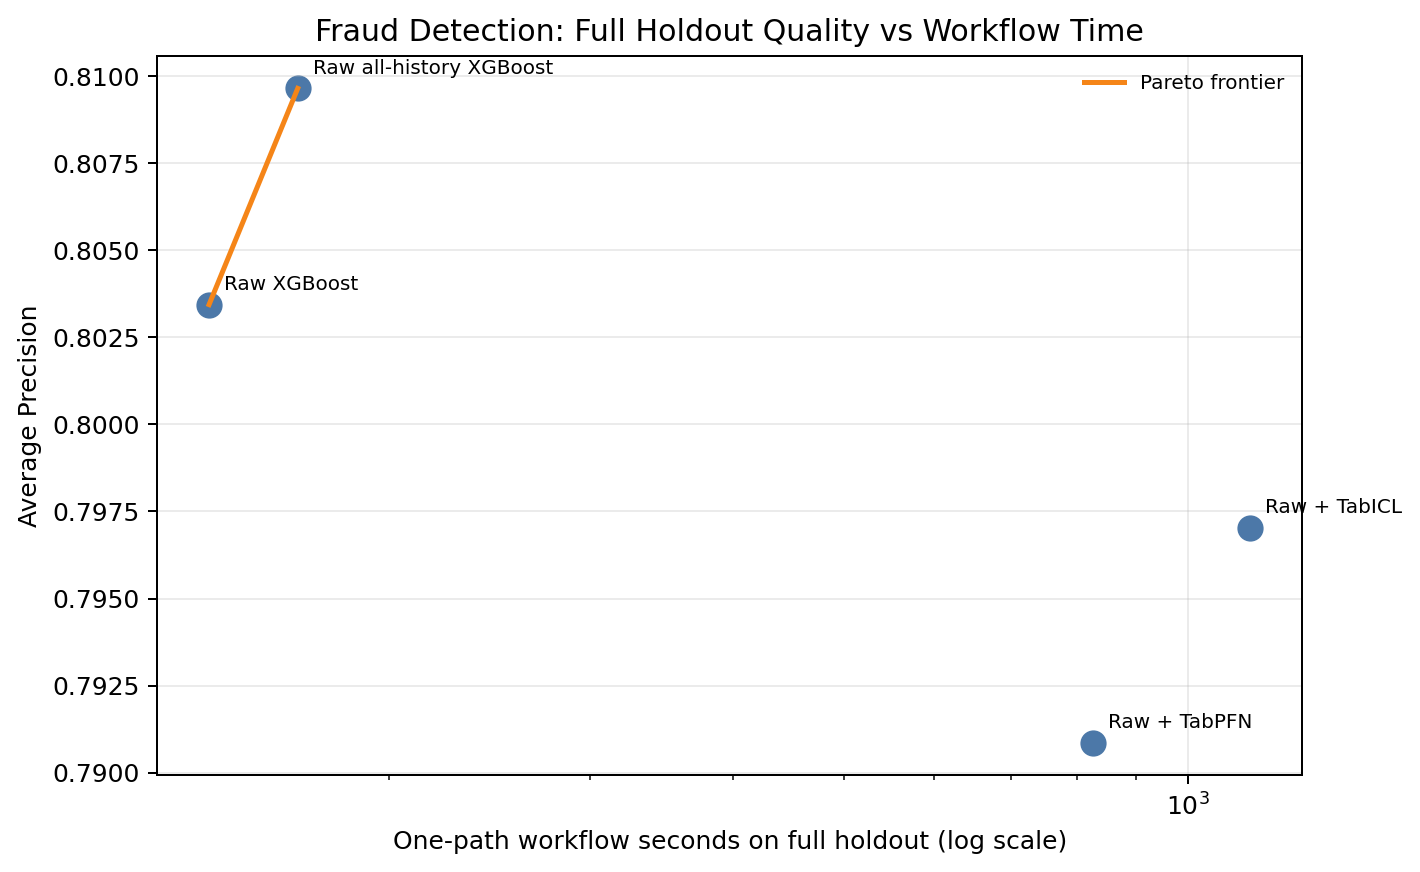
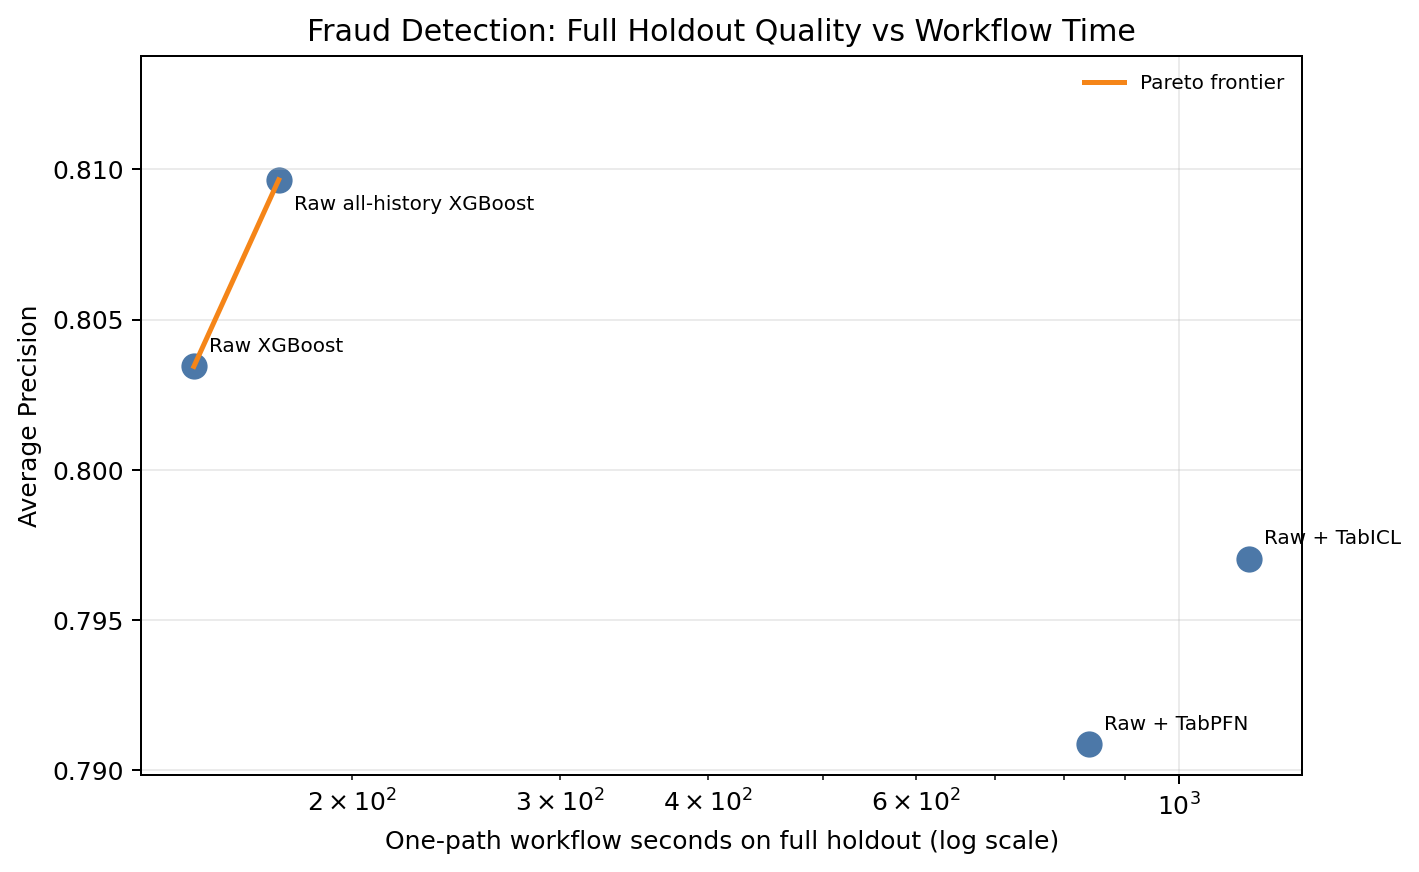
include details from v3 in the post

diff --git a/blog/20260505-tabpfn-tabicl-embeddings-fraud-det-workflows.md b/blog/20260505-tabpfn-tabicl-embeddings-fraud-det-workflows.md
@@ -20,7 +20,7 @@ Notebook:
 
 [tabpfn-tabicl-fraud-detection-20260505.ipynb](./20260505-tabpfn-tabicl-embeddings-fraud-det-workflows.assets/tabpfn-tabicl-fraud-detection-20260505.ipynb)
 
-The current notebook source is marked `P17, v3`. The completed numerical results discussed in this post come from the v2 run saved in the assets directory. The v3 source keeps the same core workflow, adds stronger reproducibility and uncertainty artifacts, and is ready for a fresh Kaggle GPU execution.
+The completed numerical results discussed in this post come from the final v3 rerun saved in the assets directory. This v3 run keeps the compact one-embedding-source comparison and adds stronger reproducibility artifacts: curated publication operating-point tables, bootstrap uncertainty, source/model provenance, embedding matrix memory summaries, and CUDA memory snapshots.
 
 ## Conceptual background
 
@@ -174,11 +174,11 @@ Lower is better for both. The notebook also reports reliability-bin summaries an
 
 ## Hands-on demo
 
-### Notebook setup and run state
+### Notebook setup and run state < remove this section. I want to discuss scientific and experiemental results and don't want the blog post to be log book >
 
 The notebook is designed to run on Kaggle with GPU enabled. It installs `cudf-cu12`, uses the cuDF pandas accelerator, generates TabPFN and TabICL embeddings on CUDA devices, and uses a GPU XGBoost path for the downstream scorer.
 
-The v2 completed run used:
+The final v3 completed rerun used: 
 
 | Component | Version |
 |---|---:|
@@ -194,32 +194,34 @@ The v2 completed run used:
 | TabPFN | 7.1.1 |
 | TabICL | 2.1.1 |
 
-The v2 notebook ran without notebook execution errors. The current v3 source adds more provenance, memory, and uncertainty outputs, but those v3 outputs still need a fresh completed GPU run.
+The notebook ran without execution errors. The only stderr output came from Kaggle setup dependency warnings and a cuDF compression auto-detection warning while loading data. The run produced the expected publication tables and figures, including the new bootstrap, memory, and provenance outputs.
 
 ### Split and tuning policy
 
+< there is no need to mention v1 v2 and v3 in the post. Treat the latest version (v3 in this case) as the one and only publishable version and use it for the blog post.
+
 The split and tuning policy are central to the result. The fair raw-vs-embedding comparison excludes the earliest representation-context rows from downstream tuning, because those labels were used to condition TabPFN and TabICL embeddings.
 
-In the v2 run:
+In the v3 rerun:
 
 | Comparison | Tuning rows | Fraud rows | Context rows excluded | Sampled train used |
 |---|---:|---:|---:|---:|
 | fair raw-vs-embedding | 142,403 | 227 | 56,961 | false |
 | raw all-history incumbent | 199,364 | 384 | 0 | false |
 
-The fair raw-vs-embedding path had five valid chronological folds. This matters because the earlier workflow had too little valid chronological tuning evidence after fraud-count checks. The v2/v3 design gives the XGBoost tuner more chronological history while still respecting the TFM context boundary.
+The fair raw-vs-embedding path had five valid chronological folds. This matters because the earlier workflow had too little valid chronological tuning evidence after fraud-count checks. The v3 design gives the XGBoost tuner more chronological history while still respecting the TFM context boundary.
 
 ### Feature bundles
 
-The v2 run evaluated the intended feature bundles:
+The v3 rerun evaluated the intended feature bundles:
 
 | Feature set | Embedding source | Feature count | Shared feature prep seconds |
 |---|---|---:|---:|
 | Raw | none | 29 | 0.0 |
-| Raw + TabPFN embeddings | TabPFN | 221 | 373.2 |
-| Raw + TabICL embeddings | TabICL | 541 | 120.3 |
+| Raw + TabPFN embeddings | TabPFN | 221 | 371.4 |
+| Raw + TabICL embeddings | TabICL | 541 | 120.5 |
 
-There is no combined `Raw + TabPFN + TabICL` row in the v2 publication workflow. I removed it because the main question is one-embedding-source adoption. This makes the result less dramatic than the initial completed run, where the combined row had the best AP, but I think it makes the comparison more realistic.
+There is no combined `Raw + TabPFN + TabICL` row in the v3 publication workflow. I removed it because the main question is one-embedding-source adoption. This makes the result less dramatic than the initial completed run, where the combined row had the best AP, but I think it makes the comparison more realistic.
 
 The two embedding paths are also technically different. TabPFN exposes a public `get_embeddings` method. TabICL does not expose the same sklearn-level public embedding method, so the notebook extracts representations through the fitted TabICL wrapper internals and records the version/checkpoint metadata. That is useful for experimentation, but it should be treated as a version-sensitive path.
 
@@ -229,10 +231,10 @@ The full holdout is the deployment-facing view because it keeps the original fin
 
 | Model | AP | Workflow seconds | Top 0.5% recall | Top 1% recall | Brier | ECE 10 |
 |---|---:|---:|---:|---:|---:|---:|
-| Raw all-history XGBoost | 0.8097 | 166.5 | 0.8533 | 0.8533 | 0.000424 | 0.000104 |
-| Raw XGBoost | 0.8034 | 139.2 | 0.8400 | 0.8667 | 0.000403 | 0.000231 |
-| Raw + TabICL | 0.7970 | 1134.1 | 0.8267 | 0.9067 | 0.000451 | 0.000485 |
-| Raw + TabPFN | 0.7909 | 825.3 | 0.8000 | 0.8400 | 0.000381 | 0.000184 |
+| Raw all-history XGBoost | 0.8097 | 173.3 | 0.8533 | 0.8533 | 0.000424 | 0.000104 |
+| Raw XGBoost | 0.8034 | 147.0 | 0.8400 | 0.8667 | 0.000403 | 0.000231 |
+| Raw + TabICL | 0.7970 | 1147.8 | 0.8267 | 0.9067 | 0.000451 | 0.000485 |
+| Raw + TabPFN | 0.7909 | 840.2 | 0.8000 | 0.8400 | 0.000381 | 0.000184 |
 
 The raw all-history XGBoost incumbent has the best full-holdout Average Precision. The ordinary raw XGBoost row is close and fastest. Neither single-source embedding workflow improves AP over the raw XGBoost baselines in this run.
 
@@ -264,9 +266,35 @@ At 90% recall, the result changes:
 | Raw XGBoost | 1,177 | 68 | 0.0578 |
 | Raw + TabPFN | 1,598 | 68 | 0.0426 |
 
-This is the main operational signal from the v2 run. TabICL does not win by full-holdout AP, but it needs far fewer alerts to recover 68 of the 75 fraud cases in the full holdout. For a review team targeting very high recall, that is worth further investigation.
+This is the main operational signal from the v3 rerun. TabICL does not win by full-holdout AP, but it needs far fewer alerts to recover 68 of the 75 fraud cases in the full holdout. For a review team targeting very high recall, that is worth further investigation.
 
 This also shows why an evaluation should not stop at one metric. AP is a useful ranking summary. Alert counts translate the score into a workflow. Both are needed.
+
+### Bootstrap uncertainty
+
+The v3 notebook adds bootstrap uncertainty for full-holdout AP and for the number of alerts needed at 80% and 90% recall. This matters because the full holdout has only 75 fraud cases. With that few positive examples, small AP differences should not be treated as precise estimates.
+
+Full-holdout AP uncertainty:
+
+| Model | Point AP | Bootstrap median | 95% CI lower | 95% CI upper |
+|---|---:|---:|---:|---:|
+| Raw XGBoost | 0.8034 | 0.8032 | 0.6972 | 0.8709 |
+| Raw all-history XGBoost | 0.8097 | 0.8140 | 0.7189 | 0.8947 |
+| Raw + TabPFN | 0.7909 | 0.7905 | 0.7061 | 0.8687 |
+| Raw + TabICL | 0.7970 | 0.7973 | 0.7063 | 0.8723 |
+
+The intervals overlap heavily. I read the AP table as a point-estimate ranking, not as a decisive separation between the rows.
+
+For alerts needed at 90% recall:
+
+| Model | Point estimate | Bootstrap median | 95% CI lower | 95% CI upper |
+|---|---:|---:|---:|---:|
+| Raw XGBoost | 1,177 | 1,230 | 212 | 9,822 |
+| Raw all-history XGBoost | 1,064 | 1,046 | 129 | 7,311 |
+| Raw + TabPFN | 1,598 | 1,598 | 451 | 7,972 |
+| Raw + TabICL | 490 | 495 | 254 | 3,449 |
+
+The TabICL point estimate is still operationally interesting, but the wide intervals are a reminder that this is one public holdout, not a production decision study.
 
 ### Runtime and workflow cost
 
@@ -280,18 +308,40 @@ The timing table is:
 
 | Feature set | Embedding prep seconds | Total workflow seconds |
 |---|---:|---:|
-| Raw | 0.0 | 139.2 |
-| Raw all-history incumbent | 0.0 | 166.5 |
-| Raw + TabPFN | 373.2 | 825.3 |
-| Raw + TabICL | 120.3 | 1134.1 |
+| Raw | 0.0 | 147.0 |
+| Raw all-history incumbent | 0.0 | 173.3 |
+| Raw + TabPFN | 371.4 | 840.2 |
+| Raw + TabICL | 120.5 | 1147.8 |
 
 One nuance is easy to miss: TabICL embedding preparation was faster than TabPFN embedding preparation in this run, but the total TabICL workflow was slower. The reason is that the TabICL feature matrix was wider, and XGBoost tuning on that matrix took longer.
 
 This is why I prefer the phrase workflow seconds rather than model seconds. In a production-style test, the representation is only useful if its quality or operating-point gain justifies the whole path: extraction, storage, downstream fitting, prediction, calibration, and monitoring.
 
+### Memory and provenance
+
+The v3 notebook also records embedding matrix sizes and CUDA memory snapshots. This is important because a representation workflow can fail for practical reasons even when the score metrics look interesting.
+
+For the largest final training embedding matrices:
+
+| Source | Rows | Embedding columns | Approx memory MB |
+|---|---:|---:|---:|
+| TabPFN | 170,884 | 192 | 125.2 |
+| TabICL | 170,884 | 512 | 333.8 |
+
+For the full holdout embedding matrices:
+
+| Source | Rows | Embedding columns | Approx memory MB |
+|---|---:|---:|---:|
+| TabPFN | 56,962 | 192 | 41.7 |
+| TabICL | 56,962 | 512 | 111.3 |
+
+The CUDA memory snapshots show both embedding paths fitting on the two-T4 Kaggle runtime. TabPFN used both CUDA devices and reached about 936.8 MB max allocated per device during extraction. TabICL used device 0 more heavily, with about 3657.3 MB max allocated and 4548.0 MB reserved after extraction.
+
+The notebook also records source/model provenance. In this Kaggle run, the local paths are not git checkouts, so source commit fields are unavailable. The model metadata is still useful: TabPFN uses the installed `TabPFNClassifier.get_embeddings` path, while TabICL uses the `tabicl-classifier-v2-20260212.ckpt` checkpoint and an internal representation path marked as validated for this notebook.
+
 ### Calibration diagnostics
 
-Calibration is not a clear win in the v2 run.
+Calibration is not a clear win in the v3 rerun.
 
 Full-holdout calibration rows:
 
@@ -301,19 +351,19 @@ Full-holdout calibration rows:
 | Raw base | 0.8047 | 0.000396 | 0.002835 | 0.000209 |
 | Raw calibrated | 0.8047 | 0.000422 | 0.003287 | 0.000356 |
 | Raw + TabPFN none | 0.7909 | 0.000381 | 0.002500 | 0.000184 |
-| Raw + TabPFN base | 0.7892 | 0.000408 | 0.002685 | 0.000161 |
-| Raw + TabPFN calibrated | 0.7892 | 0.000435 | 0.003340 | 0.000501 |
+| Raw + TabPFN base | 0.7918 | 0.000407 | 0.002669 | 0.000163 |
+| Raw + TabPFN calibrated | 0.7918 | 0.000441 | 0.003349 | 0.000528 |
 | Raw + TabICL none | 0.7970 | 0.000451 | 0.002583 | 0.000485 |
 | Raw + TabICL base | 0.7978 | 0.000445 | 0.002719 | 0.000359 |
 | Raw + TabICL calibrated | 0.7978 | 0.000430 | 0.003091 | 0.000298 |
 
-Sigmoid calibration leaves AP unchanged for each calibration-base row, as expected for a monotonic score transform. It worsens log loss for the selected rows. It improves TabICL Brier/ECE relative to the TabICL calibration base, but not enough to make calibration an obvious overall improvement.
+Sigmoid calibration leaves AP unchanged for each calibration-base row, as expected for a monotonic score transform. It worsens log loss for all selected rows. It improves TabICL Brier/ECE relative to the TabICL calibration base, but not enough to make calibration an obvious overall improvement. For TabPFN, sigmoid calibration worsens Brier, log loss, and ECE relative to its calibration-base row.
 
 The calibration plot is included below, but this is one place where the table is more useful than the figure. Most meaningful probabilities are near zero because fraud is rare.
 
 ![Full-holdout calibration curves](./20260505-tabpfn-tabicl-embeddings-fraud-det-workflows.assets/publication_calibration_curves_full.png)
 
-The v3 notebook tightens this plot and keeps reliability-bin CSVs as the primary calibration artifact.
+The v3 plot is zoomed into the rare-event probability range, but reliability-bin CSVs remain the primary calibration artifact.
 
 ### Leakage and reuse checks
 
@@ -350,11 +400,11 @@ First, this is one public dataset. The result should not be generalized to all f
 
 Second, the public credit-card fraud dataset is anonymized. The `V1` to `V28` columns are PCA-style features. There are no customer, card, account, merchant, device, chargeback timing, or feature-lineage fields. That limits leakage analysis, entity-level validation, drift analysis, and business interpretation.
 
-Third, the full holdout has only 75 fraud cases. That makes AP and alert-count differences sensitive to a small number of ranked examples. The v3 notebook adds bootstrap uncertainty for AP and target-recall alert counts so the next completed run can make this uncertainty visible.
+Third, the full holdout has only 75 fraud cases. That makes AP and alert-count differences sensitive to a small number of ranked examples. The v3 notebook now reports bootstrap uncertainty for AP and target-recall alert counts, and those intervals should be read alongside the point estimates.
 
 Fourth, TabICL embedding extraction uses model internals rather than a stable public embedding API equivalent to TabPFN's `get_embeddings`. That does not make the experiment invalid, but it means the code path should be version-pinned and reviewed.
 
-Fifth, the current post discusses completed v2 outputs while the notebook source is now v3. The v3 notebook adds memory, provenance, publication operating-point tables, and bootstrap uncertainty, but it still needs a fresh Kaggle GPU execution before those new artifacts can be interpreted.
+Fifth, one artifact hygiene issue remains in the saved rerun folder: `embedding_error_summary.csv` still contains an old TabPFN token error from a failed intermediate v3 run, even though the final v3 result tables show TabPFN completed successfully. The next notebook version should clean stale output files before writing new artifacts.
 
 Sixth, I have not yet added interpretability methods such as SHAP, missing-data stress tests, categorical stress tests, or drift-by-period analysis. Those are important for a broader testbench, but I kept this notebook focused on the first embedding workflow question.
 
@@ -367,7 +417,7 @@ This notebook tests a practical integration pattern for tabular foundation model
 3. append those embeddings to raw transaction features;
 4. evaluate the result with chronological splits, AP, alert counts, runtime, calibration diagnostics, and leakage checks.
 
-The completed v2 result is not a simple "TFM embeddings win" result. The raw all-history XGBoost incumbent has the best full-holdout Average Precision, and raw XGBoost is close while being much faster. Single-source TabPFN and TabICL embeddings do not beat the raw baselines by AP in this run.
+The completed v3 rerun is not a simple "TFM embeddings win" result. The raw all-history XGBoost incumbent has the best full-holdout point Average Precision, and raw XGBoost is close while being much faster. Single-source TabPFN and TabICL embeddings do not beat the raw baselines by AP in this run. The bootstrap intervals overlap heavily, so I would not overstate the AP ranking.
 
 The useful nuance is the high-recall operating point. At 90% recall, Raw + TabICL needed 490 alerts to recover 68 of 75 fraud cases, compared with 1,064 alerts for raw all-history XGBoost and 1,177 alerts for raw XGBoost. That makes TabICL worth investigating for high-recall review-queue settings, even though it is not the best AP/runtime row overall.
 
@@ -379,7 +429,7 @@ For labs and researchers, I hope this kind of notebook is useful as a field-faci
 
 ## Outlook
 
-The next step is to run the v3 notebook on Kaggle and review the new artifacts:
+The v3 rerun now produces the main artifacts I wanted:
 
 - `publication_alert_summary.csv`;
 - `publication_target_recall_summary.csv`;
@@ -388,12 +438,12 @@ The next step is to run the v3 notebook on Kaggle and review the new artifacts:
 - `embedding_matrix_summary.csv`;
 - `cuda_memory_summary.csv`.
 
-The main questions for the rerun are:
+The main questions from the rerun are now answered:
 
-1. Does raw all-history XGBoost still lead by AP?
-2. Does TabICL still reduce the alert count at 90% recall?
-3. Are the AP differences small relative to bootstrap uncertainty?
-4. How much CUDA memory do the TabPFN and TabICL embedding paths use?
-5. Are the cleaned publication figures ready to include directly?
+1. Raw all-history XGBoost still leads by point AP.
+2. TabICL still reduces the alert count at 90% recall.
+3. The AP differences are small relative to bootstrap uncertainty.
+4. Both embedding paths fit on the two-T4 Kaggle runtime; TabICL uses wider embeddings and higher peak/reserved CUDA memory on device 0.
+5. The cleaned publication figures are usable, although reliability-bin tables remain more informative than the calibration figure.
 
-After that, I want to extend the workflow in directions that matter for real data science teams: interpretability, missing-data behavior, categorical features, time-derived feature policy, drift, group-aware splits, and additional datasets. My current goal is not to prove that one model family is always better. It is to build reusable examples that make the benefits, costs, and caveats visible enough for both model builders and practitioners to reason about them.
+The immediate notebook cleanup is to remove stale output files at the start of each run and add a final publication-completeness check. After that, I want to extend the workflow in directions that matter for real data science teams: interpretability, missing-data behavior, categorical features, time-derived feature policy, drift, group-aware splits, and additional datasets. My current goal is not to prove that one model family is always better. It is to build reusable examples that make the benefits, costs, and caveats visible enough for both model builders and practitioners to reason about them.
